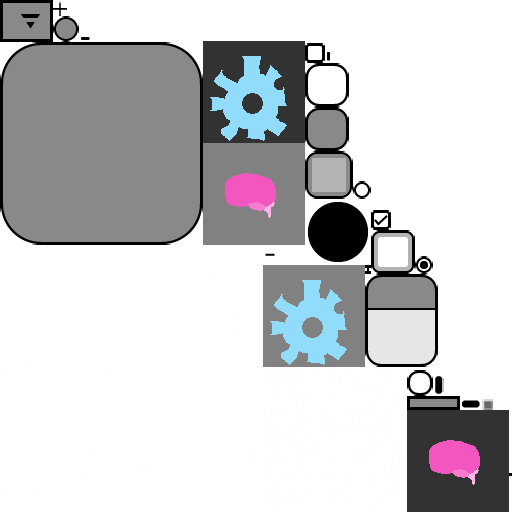
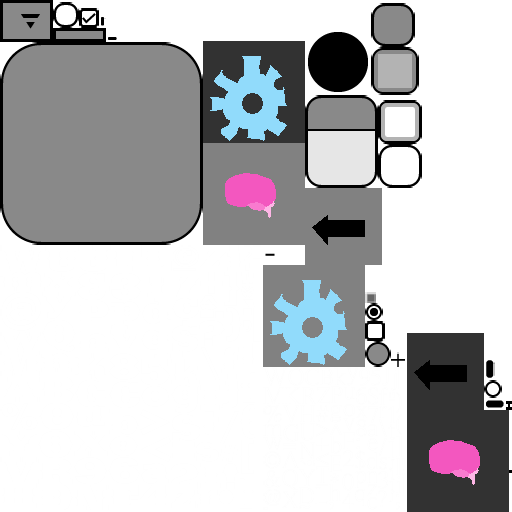
Include new assets for backbutton

Changed region(s): [[0.5938, 0.0, 1.0, 0.8125], [0.0938, 0.0, 0.2188, 0.0938]]

diff --git a/core/src/main/scenemanager/SceneManager.java b/core/src/main/scenemanager/SceneManager.java
@@ -11,6 +11,7 @@ import com.badlogic.gdx.scenes.scene2d.ui.Stack;
 import com.badlogic.gdx.scenes.scene2d.ui.Table;
 import com.badlogic.gdx.scenes.scene2d.utils.ClickListener;
 
+import main.floors.Floor;
 import main.main.Globals;
 
 public class SceneManager {
@@ -28,9 +29,13 @@ public class SceneManager {
 	private TextureAtlas atlas;
 	private Skin skin;
 
-	public SceneManager(Stage stage) {
+	private Floor floor;
+
+	public SceneManager(Stage stage, Floor floor) {
 		atlas = new TextureAtlas("assets/skinTest.atlas");
 		skin = new Skin(new FileHandle("assets/skinTest.json"), atlas);
+
+		this.floor = floor;
 
 		this.stage = stage;
 		stack = new Stack();
@@ -64,6 +69,7 @@ public class SceneManager {
 		settingsButton.addListener(new ClickListener() {
 			@Override
 			public void clicked(InputEvent event, float x, float y) {
+				stack.removeActor(gameplayButtonTable);
 				stack.add(settingsTable);
 			};
 		});
@@ -71,71 +77,67 @@ public class SceneManager {
 		designViewButton.addListener(new ClickListener() {
 			@Override
 			public void clicked(InputEvent event, float x, float y) {
+				stack.removeActor(gameplayButtonTable);
 				stack.add(designViewTable);
 			};
 		});
 
 		Table antTable = new Table();
 
-		antTable.add(new Button(skin)).width(100).height(100);
+		antTable.add(new Button(skin)).width(75).height(75);
 		antTable.row();
-		antTable.add(new Button(skin)).width(100).height(100);
+		antTable.add(new Button(skin)).width(75).height(75);
 		antTable.row();
-		antTable.add(new Button(skin)).width(100).height(100);
+		antTable.add(new Button(skin)).width(75).height(75);
 		antTable.row();
-		antTable.add(new Button(skin)).width(100).height(100);
+		antTable.add(new Button(skin)).width(75).height(75);
 		antTable.row();
-		antTable.add(new Button(skin)).width(100).height(100);
+		antTable.add(new Button(skin)).width(75).height(75);
 		antTable.row();
-		antTable.add(new Button(skin)).width(100).height(100);
+		antTable.add(new Button(skin)).width(75).height(75);
 
 		gameplayButtonTable.debugCell();
-		gameplayButtonTable.add(settingsButton).left().top().width(100).height(100);
+		gameplayButtonTable.add(settingsButton).left().top().width(75).height(75);
 
-		gameplayButtonTable.row().expandX().height(Globals.windowHeight - 200);
+		gameplayButtonTable.row().expandX().height(Globals.windowHeight - 150);
 		gameplayButtonTable.add(antTable).right();
 		gameplayButtonTable.row();
 
-		gameplayButtonTable.add(designViewButton).bottom().right().width(100).height(100);
+		gameplayButtonTable.add(designViewButton).bottom().right().width(75).height(75);
 
 		stack.add(gameplayButtonTable);
 	}
 
 	private void initializeSettingsTable() {
-
-		// Right now this is way more complex than would normally be.
-		// Normally we would use setBackground
-		Button backButton = new Button(skin);
+		Button backButton = new Button(skin, "backButton");
 
 		backButton.addListener(new ClickListener() {
 			@Override
 			public void clicked(InputEvent event, float x, float y) {
 				stack.removeActor(settingsTable);
+				stack.addActor(gameplayButtonTable);
 			};
 		});
 
 		settingsTable.setBackground("transparentBackground");
-		settingsTable.add(backButton).top().left();
+		settingsTable.add(backButton).padBottom(Globals.windowHeight - 75).padRight(Globals.windowWidth - 75);
 
 		settingsTable.setFillParent(true);
-		// stack.add(settingsTable);
 	}
 
 	private void initializeDesignViewTable() {
-
-		// This is literally the same as settings right no
-		Button backButton = new Button(skin);
+		Button backButton = new Button(skin, "backButton");
 
 		backButton.addListener(new ClickListener() {
 			@Override
 			public void clicked(InputEvent event, float x, float y) {
 				stack.removeActor(designViewTable);
+				stack.addActor(gameplayButtonTable);
 			};
 		});
 
 		designViewTable.setBackground("transparentBackground");
-		designViewTable.add(backButton).top().right();
+		designViewTable.add(backButton).padBottom(Globals.windowHeight - 75).padRight(Globals.windowWidth - 75);
 
-		designViewTable.setFillParent(true);
 	}
 }

diff --git a/core/src/main/main/Main.java b/core/src/main/main/Main.java
@@ -47,7 +47,7 @@ public class Main extends ApplicationAdapter {
 
 		Viewport viewport = new FitViewport(Globals.windowWidth, Globals.windowHeight);
 		stage = new Stage(viewport);
-		sceneManager = new SceneManager(stage);
+		sceneManager = new SceneManager(stage, floor);
 
 		InputMultiplexer multiplexer = new InputMultiplexer();
 		multiplexer.addProcessor(new InputManager(camera, floor));
